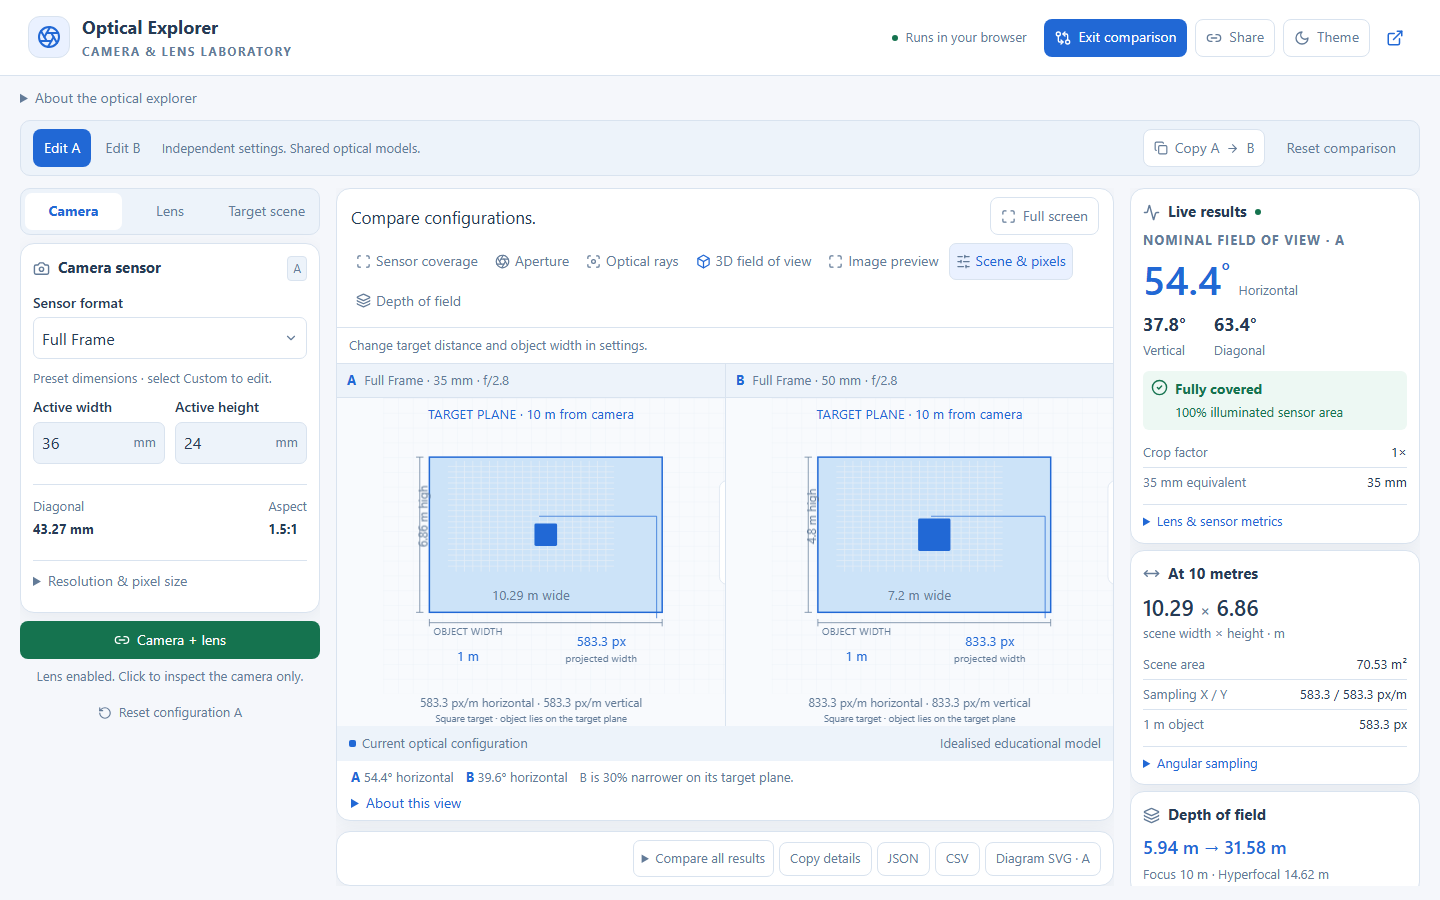
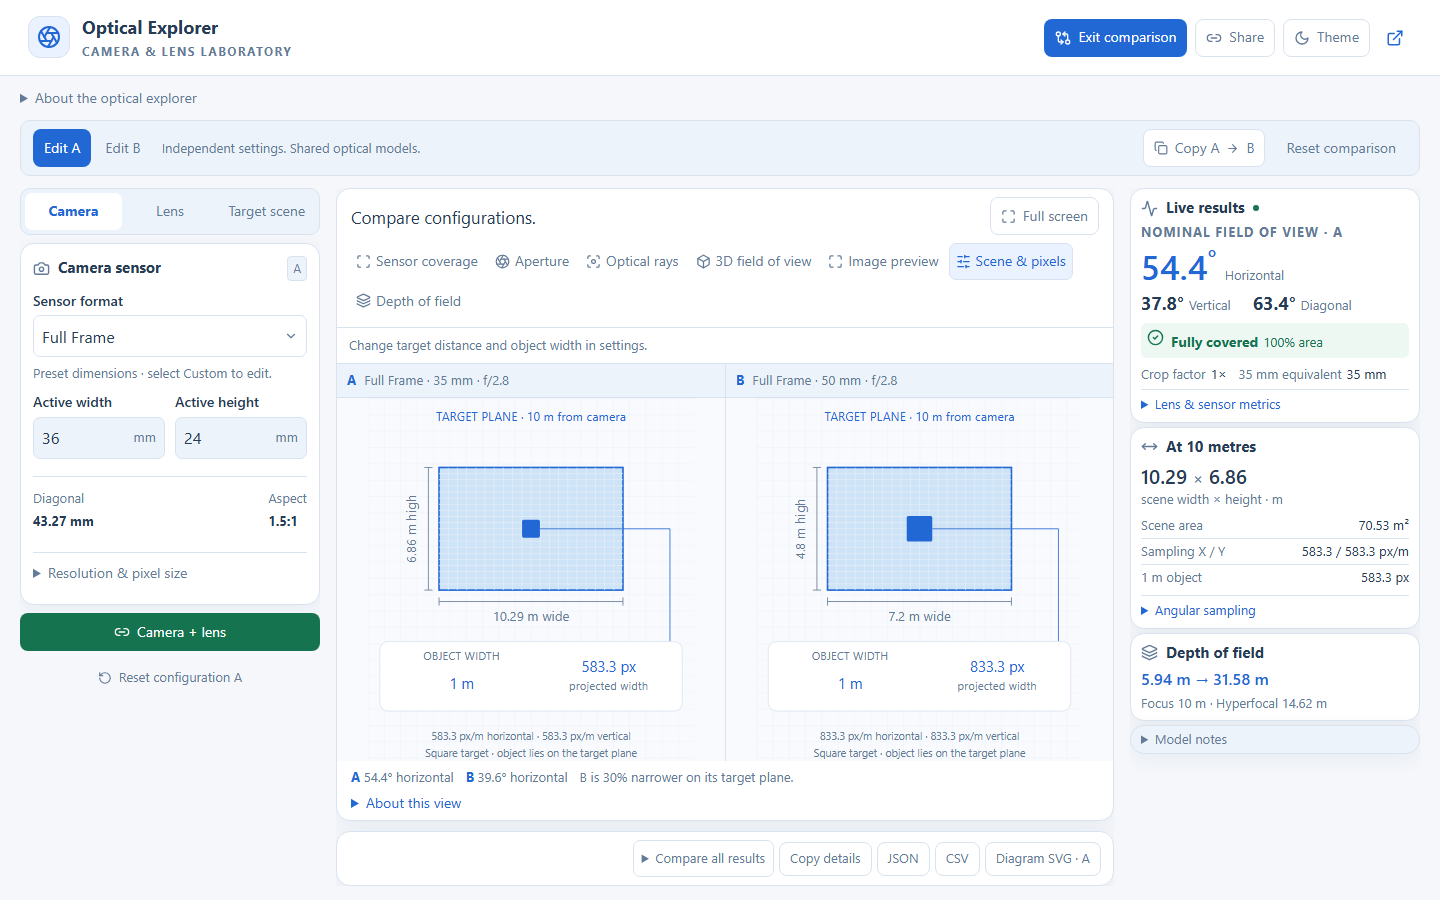
Fit complete comparison results on laptop screens

diff --git a/src/styles.css b/src/styles.css
@@ -1505,7 +1505,7 @@ input[type="checkbox"] {
     display: none;
   }
 }
-@media (min-width: 1100px) and (max-height: 850px) {
+@media (min-width: 1100px) and (max-height: 980px) {
   .results {
     gap: 6px;
   }
@@ -1615,6 +1615,41 @@ input[type="checkbox"] {
   .view-tools .button {
     min-height: 30px;
     font-size: 13px;
+  }
+  .comparing .results {
+    gap: 4px;
+  }
+  .comparing .coverage-status strong {
+    display: inline;
+    margin-right: 5px;
+  }
+  .comparing .coverage-description {
+    display: none;
+  }
+  .comparing .coverage-readout::after {
+    content: " area";
+  }
+  .comparing .equivalent-readouts {
+    display: flex;
+    flex-wrap: wrap;
+    gap: 4px 12px;
+  }
+  .comparing .equivalent-readouts > div {
+    display: flex;
+    gap: 5px;
+    white-space: nowrap;
+  }
+  .comparing .model-note {
+    padding-block: 4px;
+  }
+  .comparing .scene-dimensions {
+    margin: 4px 0;
+  }
+  .comparing .primary-result {
+    margin: 2px 0;
+  }
+  .comparing .result-card .card-heading {
+    margin-bottom: 4px;
   }
 }
 @media (max-width: 1099px) {

diff --git a/tests/explorer.spec.ts b/tests/explorer.spec.ts
@@ -260,6 +260,8 @@ test("desktop workbench fits laptop screens, explains target settings and enters
       ),
     ).toBeVisible();
     await page.getByText("What these settings mean", { exact: true }).click();
+    await page.getByRole("button", { name: "Compare", exact: true }).click();
+    expect(await page.locator(".results").evaluate((e) => e.scrollHeight <= e.clientHeight + 1), `comparison results at ${width} x ${height}`).toBe(true);
   }
   await page.getByRole("button", { name: "Full screen", exact: true }).click();
   await expect

diff --git a/src/components/Results.tsx b/src/components/Results.tsx
@@ -125,7 +125,10 @@ export function ResultsPanel({
           )}
           <div>
             <strong>{r.coverageStatus}</strong>
-            <span>{coveragePercent(r.coverage)}% illuminated sensor area</span>
+            <span className="coverage-readout">
+              {coveragePercent(r.coverage)}%
+              <span className="coverage-description"> illuminated sensor area</span>
+            </span>
           </div>
         </div>
         <dl className="equivalent-readouts spec-list">
